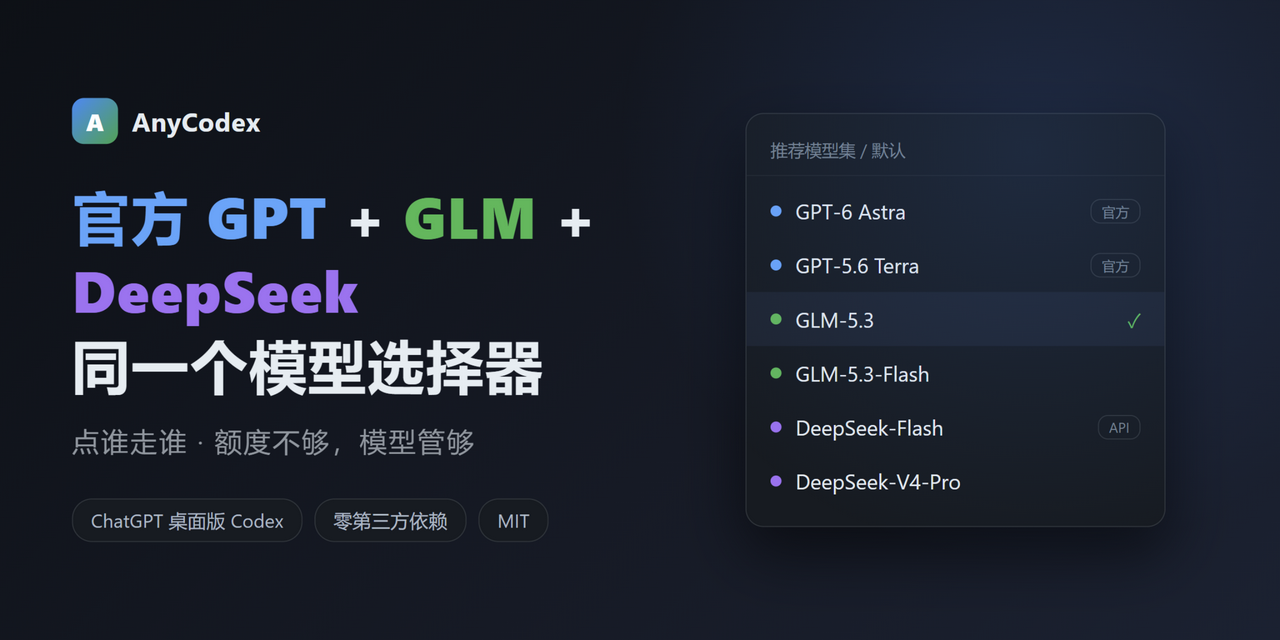
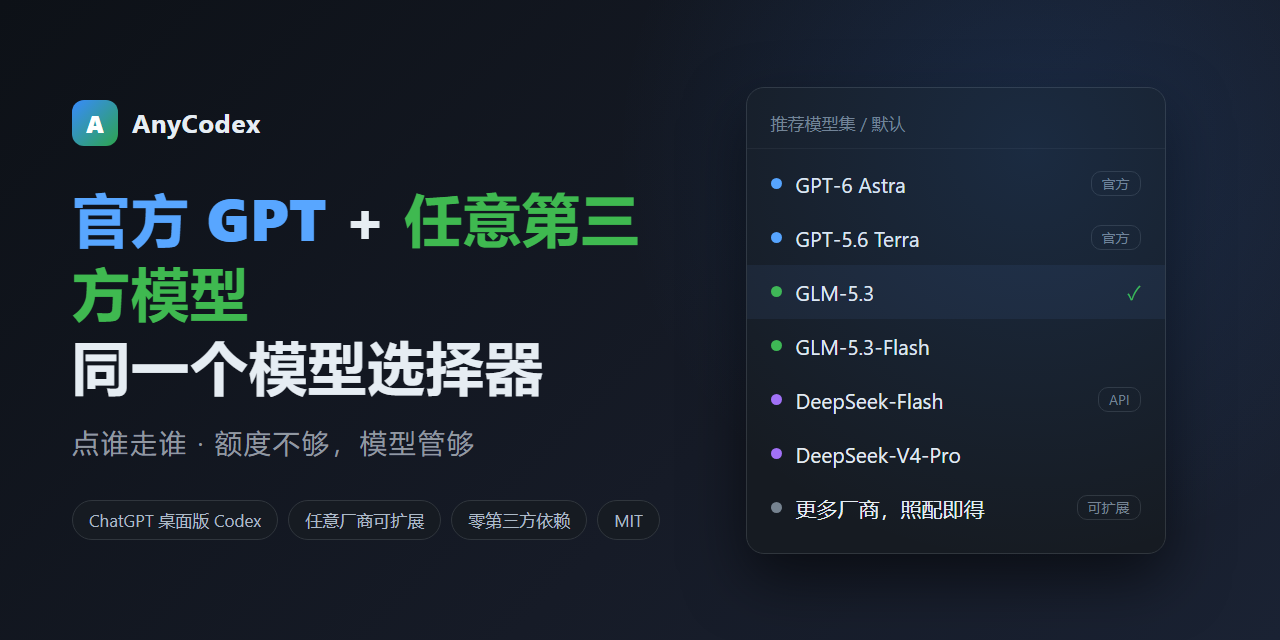
Reposition: any Responses-compatible vendor, GLM/DeepSeek as presets (README, social card)

diff --git a/assets/social-preview.html b/assets/social-preview.html
@@ -30,10 +30,11 @@
   h1 .glm { color: #3fb950; }
   h1 .ds { color: #a371f7; }
   .sub { margin-top: 22px; font-size: 27px; color: #9198a1; letter-spacing: 2px; }
-  .badges { margin-top: 40px; display: flex; gap: 12px; }
+  .badges { margin-top: 40px; display: flex; flex-wrap: wrap; gap: 10px; }
   .badge {
-    font-size: 19px; padding: 8px 18px; border-radius: 20px;
+    font-size: 17px; padding: 8px 16px; border-radius: 20px;
     border: 1px solid #30363d; background: #161b22; color: #adbac7;
+    white-space: nowrap;
   }
   .right { flex: 0.85; }
   .picker {
@@ -63,10 +64,11 @@
   <div class="glow"></div>
   <div class="left">
     <div class="brand"><div class="logo">A</div><span>AnyCodex</span></div>
-    <h1><span class="gpt">官方 GPT</span> + <span class="glm">GLM</span> + <span class="ds">DeepSeek</span><br>同一个模型选择器</h1>
+    <h1><span class="gpt">官方 GPT</span> + <span class="glm">任意第三方模型</span><br>同一个模型选择器</h1>
     <div class="sub">点谁走谁 · 额度不够，模型管够</div>
     <div class="badges">
       <div class="badge">ChatGPT 桌面版 Codex</div>
+      <div class="badge">任意厂商可扩展</div>
       <div class="badge">零第三方依赖</div>
       <div class="badge">MIT</div>
     </div>
@@ -80,6 +82,7 @@
       <div class="row"><span class="dot z"></span>GLM-5.3-Flash</div>
       <div class="row"><span class="dot d"></span>DeepSeek-Flash<span class="tag">API</span></div>
       <div class="row"><span class="dot d"></span>DeepSeek-V4-Pro</div>
+      <div class="row"><span class="dot" style="background:#768390"></span>更多厂商，照配即得<span class="tag">可扩展</span></div>
     </div>
   </div>
 </body>

diff --git a/README.md b/README.md
@@ -5,15 +5,16 @@
 ![Platform](https://img.shields.io/badge/platform-Windows%20tested-informational)
 ![Deps](https://img.shields.io/badge/dependencies-zero-success)
 
-> **English TL;DR** — Mix official OpenAI models with your own GLM / DeepSeek API keys *inside the same model picker* of the ChatGPT desktop app (Codex). A ~300-line stdlib-only local router passes official traffic through with your ChatGPT login untouched, and routes `glm*` / `deepseek*` models to their vendors. No environment switching, no third-party tools, fully reversible. [中文介绍见下 ↓](#效果)
+> **English TL;DR** — Mix official OpenAI models with third-party models from your own API keys *inside the same model picker* of the ChatGPT desktop app (Codex). GLM and DeepSeek come preset; any vendor that speaks the OpenAI **Responses** protocol plugs in with one config block. A ~300-line stdlib-only local router passes official traffic through with your ChatGPT login untouched. No environment switching, no third-party tools, fully reversible. [中文介绍见下 ↓](#效果)
 
-**在 ChatGPT 桌面版的 Codex 里，官方模型与 GLM / DeepSeek 同一个选择器混选、点谁走谁。**
+**在 ChatGPT 桌面版的 Codex 里，官方模型与任意第三方模型（GLM、DeepSeek、Kimi……）同一个选择器混选、点谁走谁。**
 
-如果你的 ChatGPT 套餐额度不够用，又订阅了 [GLM Coding Plan](https://bigmodel.cn) 或有 DeepSeek API Key，这个项目让你在**不放弃官方模型和账号能力**的前提下，把它们直接加进 Codex 右下角的模型选择器。
+如果你的 ChatGPT 套餐额度不够用，手里又有任意厂商的 API Key——[GLM Coding Plan](https://bigmodel.cn)、[DeepSeek](https://platform.deepseek.com)，或任何支持 OpenAI Responses 协议的服务——这个项目让你在**不放弃官方模型和账号能力**的前提下，把它们直接加进 Codex 右下角的模型选择器。
 
 - 官方模型照常用（消耗你的 ChatGPT 套餐）
-- GLM / DeepSeek 走你自己的 API Key（消耗 Coding Plan / DeepSeek 额度，便宜得多）
+- 第三方模型走你自己的 API Key（比 ChatGPT 套餐便宜得多）
 - 零第三方工具依赖：核心是一个数百行、无任何 pip 依赖的 Python 本地路由
+- 不绑定厂商：GLM / DeepSeek 只是预置模板，加新厂商 = 照抄一个配置块
 
 > 仅需 Python 3.11+。已在 Windows 实测；macOS/Linux 路由核心为纯 Python，可参考 [手动安装](#其他系统)。
 
@@ -27,11 +28,12 @@
 
 ```
 GPT-6-Astra / GPT-5.6-Sol / GPT-5.6-Terra ...   ← 官方，走你的 ChatGPT 套餐
-GLM-5.3 / GLM-5.3-Flash                          ← 智谱 Coding Plan
-DeepSeek-Flash / DeepSeek-V4-Pro                 ← DeepSeek API
+GLM-5.3 / GLM-5.3-Flash                          ← 智谱 Coding Plan（预置）
+DeepSeek-Flash / DeepSeek-V4-Pro                 ← DeepSeek API（预置）
+…任意厂商，照抄配置块即加                          ← 你的 Key，你的模型
 ```
 
-选谁就走谁：GLM 系列请求转发到智谱、DeepSeek 系列转发到 DeepSeek（两者均原生支持 OpenAI Responses 协议），其余原样透传到 OpenAI 官方后端并携带你自己的 ChatGPT 登录态。
+选谁就走谁：按模型名前缀分流——`glm*` 转发智谱、`deepseek*` 转发 DeepSeek（均为预置），其他厂商在 [添加任意厂商](#添加任意厂商) 补一个配置块即可。唯一要求：厂商原生支持 OpenAI **Responses** 协议。其余请求原样透传到 OpenAI 官方后端并携带你自己的 ChatGPT 登录态。
 
 ## 原理
 
@@ -44,9 +46,10 @@ ChatGPT 桌面版（官方登录态，不做任何修改）
 config.toml：全局供应商指向本机路由（requires_openai_auth = true）
       ▼
 codex_router.py（127.0.0.1:8231，按请求体里的 model 字段分流）
-      ├─ glm*      → open.bigmodel.cn/api/v1     （智谱 Key）
-      ├─ deepseek* → api.deepseek.com            （DeepSeek Key）
-      └─ 其他       → chatgpt.com/backend-api/codex（透传你的 ChatGPT JWT，经系统代理）
+      ├─ glm*      → open.bigmodel.cn/api/v1     （智谱 Key，预置）
+      ├─ deepseek* → api.deepseek.com            （DeepSeek Key，预置）
+      ├─ 其他前缀   → 你在配置里声明的任意厂商
+      └─ 未匹配     → chatgpt.com/backend-api/codex（透传你的 ChatGPT JWT，经系统代理）
 ```
 
 1. **登录态透传**：`requires_openai_auth = true` 让引擎把你的 ChatGPT 凭证发给本机路由，官方请求原样转发——官方模型行为与原生完全一致（实测抓包验证）。
@@ -58,7 +61,7 @@ codex_router.py（127.0.0.1:8231，按请求体里的 model 字段分流）
 
 - ChatGPT 桌面版（已登录，Codex 可正常使用）
 - Python 3.11+（仅需标准库）
-- [GLM Coding Plan](https://bigmodel.cn) 的 API Key 和/或 [DeepSeek](https://platform.deepseek.com) 的 API Key（可任选其一或都要）
+- 任意厂商的 API Key：预置 [GLM Coding Plan](https://bigmodel.cn) 与 [DeepSeek](https://platform.deepseek.com)（可任选其一或都要）；其他厂商见 [添加任意厂商](#添加任意厂商)
 - 如果 cc-switch 等工具正在接管你的 `~/.codex/config.toml`，先用它还原为官方配置再安装（本工具与"切换器"类工具不兼容，因为它需要常驻供应商）
 
 ## 安装
@@ -80,11 +83,11 @@ python setup.py
 - 官方模型报 429 是你的 ChatGPT 套餐额度用完，与本工具无关。
 - 修改 `router_config.json`（换 Key、加模型）后重启路由进程即可；改了模型目录相关内容需重启应用。
 
-## 添加其他厂商
+## 添加任意厂商
 
-编辑 `router_config.json`（或 `~/.codex/router_config.json`），照抄一个 vendor 块改四个字段：`match_prefixes`（模型名前缀）、`host`、`path_prefix`（Responses 端点路径）、Key；`models` 里按模板补模型元数据。重启路由生效。
+AnyCodex 不绑定厂商，GLM / DeepSeek 只是预置模板。加新厂商：编辑 `router_config.json`（或 `~/.codex/router_config.json`），照抄一个 vendor 块改四个字段：`match_prefixes`（模型名前缀）、`host`、`path_prefix`（Responses 端点路径）、Key；`models` 里按模板补模型元数据。重启路由生效。
 
-> 厂商必须原生支持 OpenAI **Responses** 协议才能直连。只有 chat completions 接口的厂商需要在路由里加一层协议翻译（欢迎 PR）。
+> 唯一硬性要求：厂商必须原生支持 OpenAI **Responses** 协议才能直连。只有 chat completions 接口的厂商需要在路由里加一层协议翻译（欢迎 PR）。
 
 ## 排障
 
